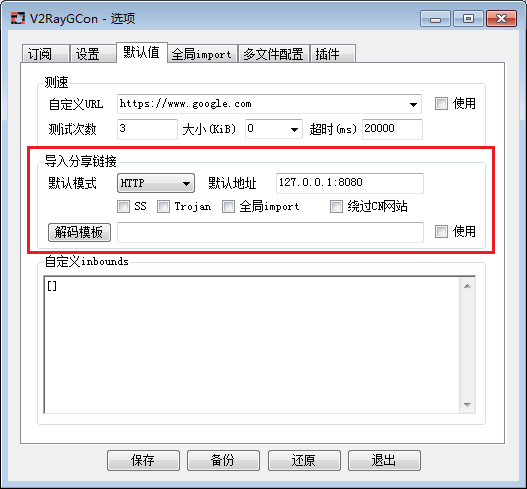
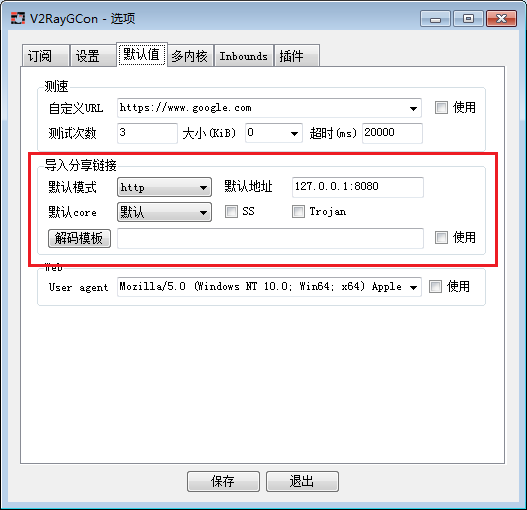
v1.8.5

diff --git a/content/01-usage/15-custom-inbounds.md b/content/01-usage/15-custom-inbounds.md
@@ -1,24 +1,29 @@
 ---
-title: "自定义Inbounds"
+title: "导入链接的默认配置"
 date: 2020-02-01T17:39:27+08:00
 draft: false
 weight: 15
 ---
 
-这个软件导入链接时的默认inbound是http://127.0.0.1:8080，你可以在选项窗口修改这个设置。
+选项窗口的`默认值`分页可以修改导入链接的默认配置。
 {{< figure src="../../images/forms/form_option_defaults.png" >}}
-其中“http/socks”模式表示将inbounds修改为http/socks协议。  
-“Config”表示不修改inbounds，直接使用config.json中的inbounds设置。  
-“自定义”表示使用“自定义inbounds”中的内容替换inbounds设置。  
-“解码模板”用于修改（仅限）vmess协议的outbounds配置。具体可以参考[vmess outbound模板](https://raw.githubusercontent.com/vrnobody/V2RayGCon/master/V2RayGCon/Resources/Files/templates/custom/vmessDecodeTemplate.json)。  
+`默认模式`对应`Inbounds`分页的配置名字，软件自带了config, http, socks三种配置，可以自行修改、添加更多配置  
+`默认core`对应`多内核`分页的配置名字  
+`解码模板`用于修改（仅限）vmess协议的outbounds配置。具体参考[vmess outbound模板](https://raw.githubusercontent.com/vrnobody/V2RayGCon/master/V2RayGCon/Resources/Files/templates/custom/vmessDecodeTemplate.json)  
 
+##### Inbounds(分页)
+{{< figure src="../../images/forms/form_custom_inbound_editor.png" >}}
+上面是http配置模板示例。模板中的`%host%`和`%port%`将会替换成`默认值`分页中的`默认地址`。模板不一定是json，也可以是yaml或者任意text。不过v1.8.5对yaml的支持比较弱鸡，只会简单的替换第一层key。而text类型的模板则直接插入到config的顶部。这样看文字比较抽象，建议自己添加几个不同类型的Inbounds，然后看服务器最终配置。注意模板的类型要和服务器config的类型对应，如果把一个yaml类型的模板应用到一个json类型的config会失效。  
 
-上面的设置仅对新导入的服务器生效，已经导入的服务器可以在“设定及二维码”面板中修改Inbound设置。  
+##### 多内核(分页)
+{{< figure src="../../images/forms/form_option_custom_core.png" >}}
+本软件默认支持xray和v2ray v4.x内核。其他内核可以在`多内核`分页里面添加。上面是一个v2ray v5.x的配置例子。这里配置完成后可以回`默认值`分页选择`默认core`。使用其他内核时，流量统计功能失效。如果需要生成config文件，注意文件名(v5.json)和命令行参数一致。生成的文件位于本软件目录内。为了减少（只是减少，不知道怎么避免）并发读写同一配置文件时发生冲突，连续写盘间隔设定为3秒。  
+
+##### 导入以后修改设置
+上面的设置仅对新导入的服务器生效，已经导入的服务器可以在`设定及二维码`面板中修改相应的设置。  
 {{< figure src="../../images/forms/form_settings_and_qrcode.png" >}}
-提示：点击青色的 (h8080) 标签可以快速调出“设定及二维码”窗口。
+提示：点击青色的 (http) 标签可以快速调出`设定及二维码`窗口。
 
-同时修改多个服务器时，在多选之后点击“主窗口”-“服务器”-“批量修改”即可。 
+同时修改多个服务器时，在钩选多个服务器以后点击“主窗口”-“服务器”-“批量修改”即可。 
 {{< figure src="../../images/forms/form_batch_modify.png" >}}
 
-单看文字描述可能比较抽象，在修改上面的设置后可以点开“查看最终配置”观察配置的变化。  
-注意：“查看最终配置”只能看不能改，改了也不能保存。  

diff --git a/content/03-plugins/01-luna/50-all-functions.md b/content/03-plugins/01-luna/50-all-functions.md
@@ -22,9 +22,13 @@ end
  * Each()是预定义函数，源码在[LuaPredefinedFunctions.txt][4]文件中
  * coreServ的类型是[ICoreServCtrl][3]，分为4个模块，通过调用`Get***()`方法选用相应模块。每个模块在[CoreCtrlComponents][5]之中声明。
 
-上面代码使用`coreServ`，`coreState`这么奇怪的变量名是因为这两个关键字有代码提示。还有`coreLogger`，`coreConfiger`两个关键字也有代码提示。V2RayGCon v1.8+引入了一个新的关键字wserv简化各模块调用，例如：
+上面代码使用`coreServ`，`coreState`这么奇怪的变量名是因为这两个关键字有代码提示。还有`coreLogger`，`coreConfiger`两个关键字也有代码提示。  
+  
+V2RayGCon v1.8+引入了一个新的关键字wserv简化各模块调用。  
 ```lua
--- 旧写法（重启第1个服务器）
+-- 重启第1个服务器.lua
+
+-- 旧写法
 local coreServ = Server:GetServerByIndex(1)
 local coreState = coreServ:GetCoreStates()
 local coreCtrl = coreServ:GetCoreCtrl()

diff --git a/content/03-plugins/_index.md b/content/03-plugins/_index.md
@@ -11,3 +11,13 @@ weight: 3
 
 然后从主窗口（或者托盘图标）的“插件”菜单进入相应插件。  
 {{< figure src="../images/forms/form_main_plugins.png" >}}
+
+##### 第三方插件
+从`v1.8.3`开始又重新支持第三方插件。把发布文件解压到V2RayGCon目录内，然后钩上“第三方”选项，再点“刷新”就会出现在列表里面。第三方插件制作方法详见[IPlugin.cs](https://github.com/vrnobody/V2RayGCon/blob/master/VgcApis/Interfaces/IPlugin.cs)里面的注释。简单来说就是，创建一个.net framework 4.5的dll项目并引用VgcApis项目，然后实现IPlugin接口。如果你想分享自己写的插件，直接发issue即可。  
+  
+安全提示：  
+点选“刷新”按钮会执行3rd/plugins目录中插件dll的代码，有一定风险！  
+由于我水平不高加上本项目的特殊性，我不会对第三方插件做任何检查。  
+  
+第三方插件列表：  
+<等你来添加>  

diff --git a/content/03-plugins/01-luna/_index.md b/content/03-plugins/01-luna/_index.md
@@ -7,7 +7,7 @@ weight: 10
 
 这是一个NLua脚本执行器插件。内置很多管理服务器的函数，可以用lua脚本来自动化管理服务器。  
 
-`v1.8.3`Luna从内置插件移出，`v1.8.4`Luna变成第三方外置插件单独发布。需要到[Releases页面](https://github.com/vrnobody/V2RayGCon/releases)下载Luna-plugin.zip，解压到V2RayGCon目录内才能使用。建议改用[NeoLuna插件]({{< relref "03-plugins/04-neoluna/_index.md" >}})。  
+`v1.8.4`Luna由内置插件变成第三方外置插件并单独发布。需要到[Releases页面](https://github.com/vrnobody/V2RayGCon/releases)下载Luna-plugin.zip，解压到V2RayGCon目录内才能使用。建议改用[NeoLuna插件]({{< relref "03-plugins/04-neoluna/_index.md" >}})。  
 
 ##### 简单脚本演示
 {{< figure src="../../images/luna/luna_v0.4.8_print_v.png" >}}

diff --git a/content/01-usage/16-share-links.md b/content/01-usage/16-share-links.md
@@ -23,6 +23,8 @@ weight: 16
 ##### v2cfg://...
 这也是本软件自创的一种分享链接。它直接把整个config.json进行base64编码得出，主要用于备份/还原数据。因为v2ray功能过于强大，有可能被有心人利用，通过revers把本地端口暴露到公网，所以这种链接除了`主窗口`-`文件`-`从剪切板导入`外，其他地方都不能导入。  
 
+`v1.8.5` 起`v2cfg://...`升级到ver2，旧客户端导出的ver1链接可以在新客户端导入，但如果用旧客户端导入ver2链接就会出错。  
+
 ##### vless://...
 `v1.5.2`起支持Xray-core [issues 91](https://github.com/XTLS/Xray-core/issues/91)提出的vless分享链接标准  
 `v1.5.4`支持到`3月7日`的修订，即暂不支持`gRPC`传输类型  

diff --git a/content/01-usage/12-subs-demo.md b/content/01-usage/12-subs-demo.md
@@ -17,7 +17,7 @@ weight: 12
 自`v1.4.4.0`起，订阅功能支持直接给出`vmess://...`链接的页面。譬如有人在博客、论坛分享`vmess://...`链接，那么可以把那个页面的URL当订阅源来用。  
 
 因为每个人更新订阅的习惯不同，可能有人喜欢周更，有人喜欢每天更，所以没提供定时更新功能。  
-有这个需求的小伙伴可以下载`scripts-*.zip`，魔改里的`启动时更新订阅.lua`。  
+有这个需求的小伙伴可以在NeoLuna插件里面写lua脚本实现。  
 
 ###### 小技巧
 当url为空白的时候，左键点击`URL`可以把剪切板的链接粘贴进来。当url有内容的时候，点击`URL`可把链接复制到剪切板。

diff --git a/content/01-usage/_index.md b/content/01-usage/_index.md
@@ -5,6 +5,11 @@ draft: false
 weight: 1
 ---
 
+##### 搜索功能演示
+{{< figure src="../images/forms/demo_search_v1.5.8.12.gif" >}}
+
+注：搜索框还可以输入 #数字 来定位服务器  
+
 ##### 托盘图标说明
 
 软件运行后系统托盘区将出现以下几种图标之一  
@@ -13,7 +18,7 @@ weight: 1
  * 三角形表示有一个服务器在运行
  * 十字表示有多个服务器在运行
 
- 注：空心三角形表示仅第一个服务器在运行  
+注：空心三角形表示仅第一个服务器在运行  
 
 {{< figure src="../images/systray/icons_grb.png" >}}
  * 绿色表示当前系统代理为直连模式

diff --git a/content/04-dev/01-release-log.md b/content/04-dev/01-release-log.md
@@ -5,6 +5,17 @@ draft: false
 weight: 1
 ---
 
+##### `v1.8.5.0`
+删除Json编辑器，简易编辑器，全局Import，多文件配置功能  
+删除config.json里面的v2raygcon分节  
+Text编辑器添加导航功能  
+添加基本的YAML配置支持  
+选项窗口添加Inbounds分页  
+v2cfg://...链接升级为ver2格式  
+修复主窗口滚动卡顿问题  
+修复主窗口搜索 #序号 时不能切换页面的问题  
+修复选项窗口插件分页不加载问题  
+
 ##### `v1.8.4.0`
 不再支持v://...分享链接  
 删除简单编辑器，添加文本编辑器  

diff --git a/content/01-usage/19-shortcut.md b/content/01-usage/19-shortcut.md
@@ -11,14 +11,7 @@ weight: 19
 `Ctrl [` 临时缩小字体  
 `Ctrl ]` 临时放大字体  
 
-##### Json编辑器
-
-`Ctrl F` 调出搜索窗口  
-`Ctrl S` 暂存当前修改（刷新`分节`）  
-`Ctrl [` 临时缩小字体  
-`Ctrl ]` 临时放大字体  
-
-##### Luna编辑器
+##### NeoLuna编辑器
 
 `Ctrl F` 调出搜索窗口  
 `Ctrl G` 进入`跳转至`行号输入框  
